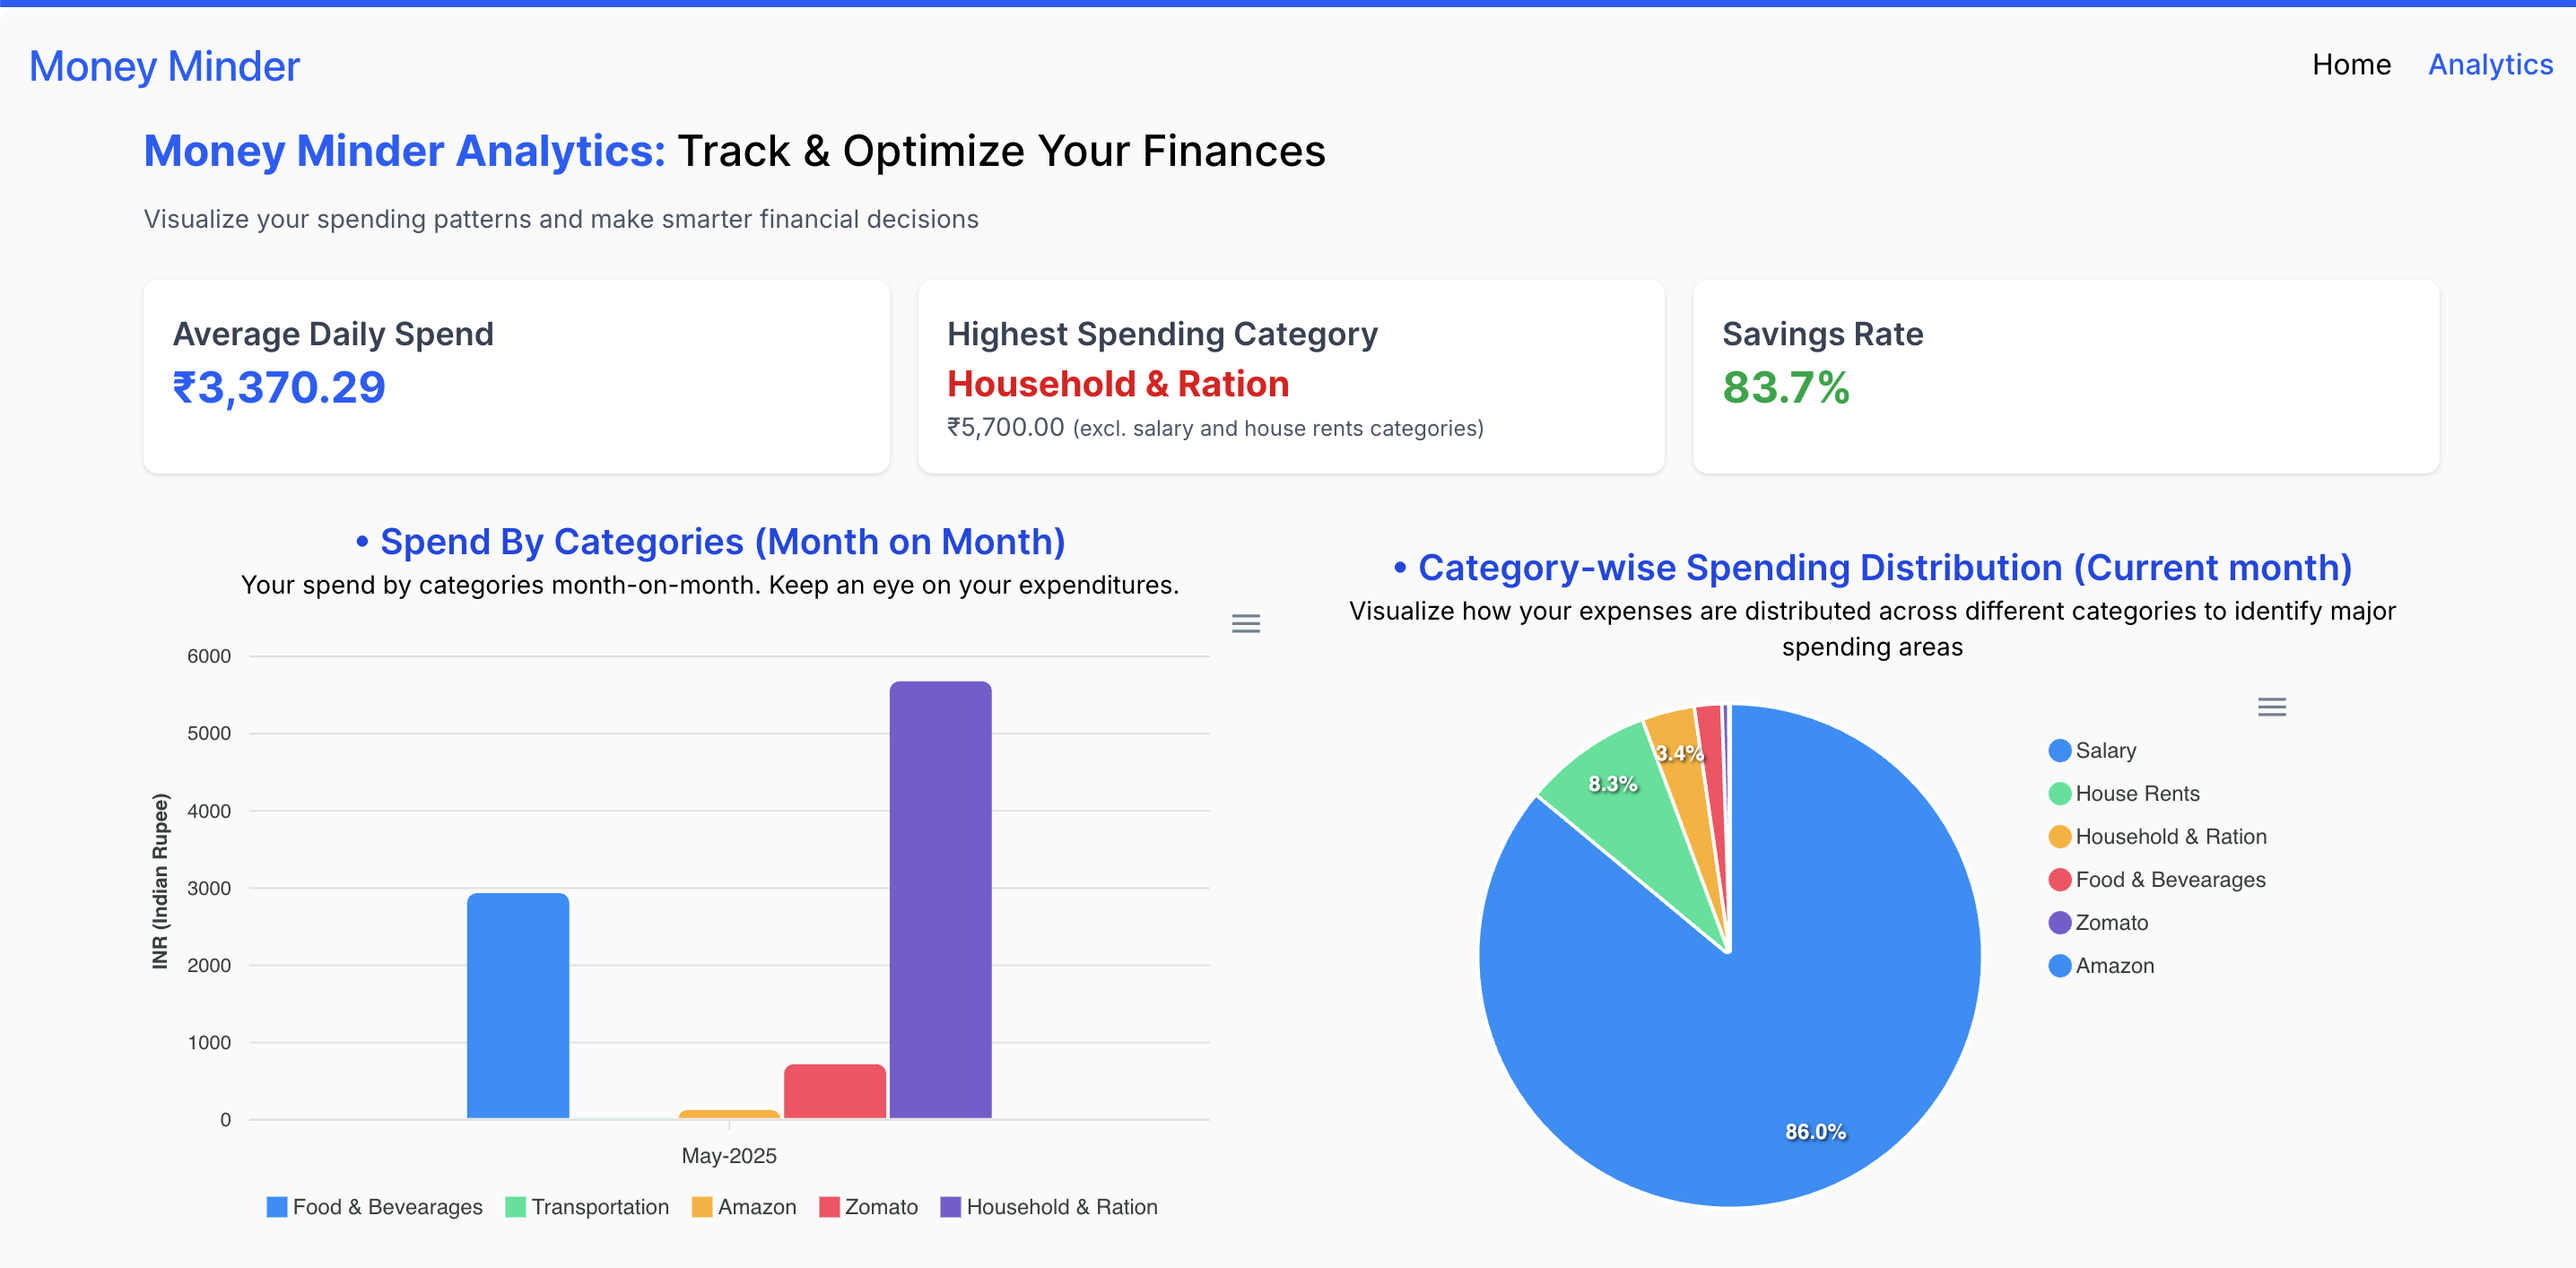
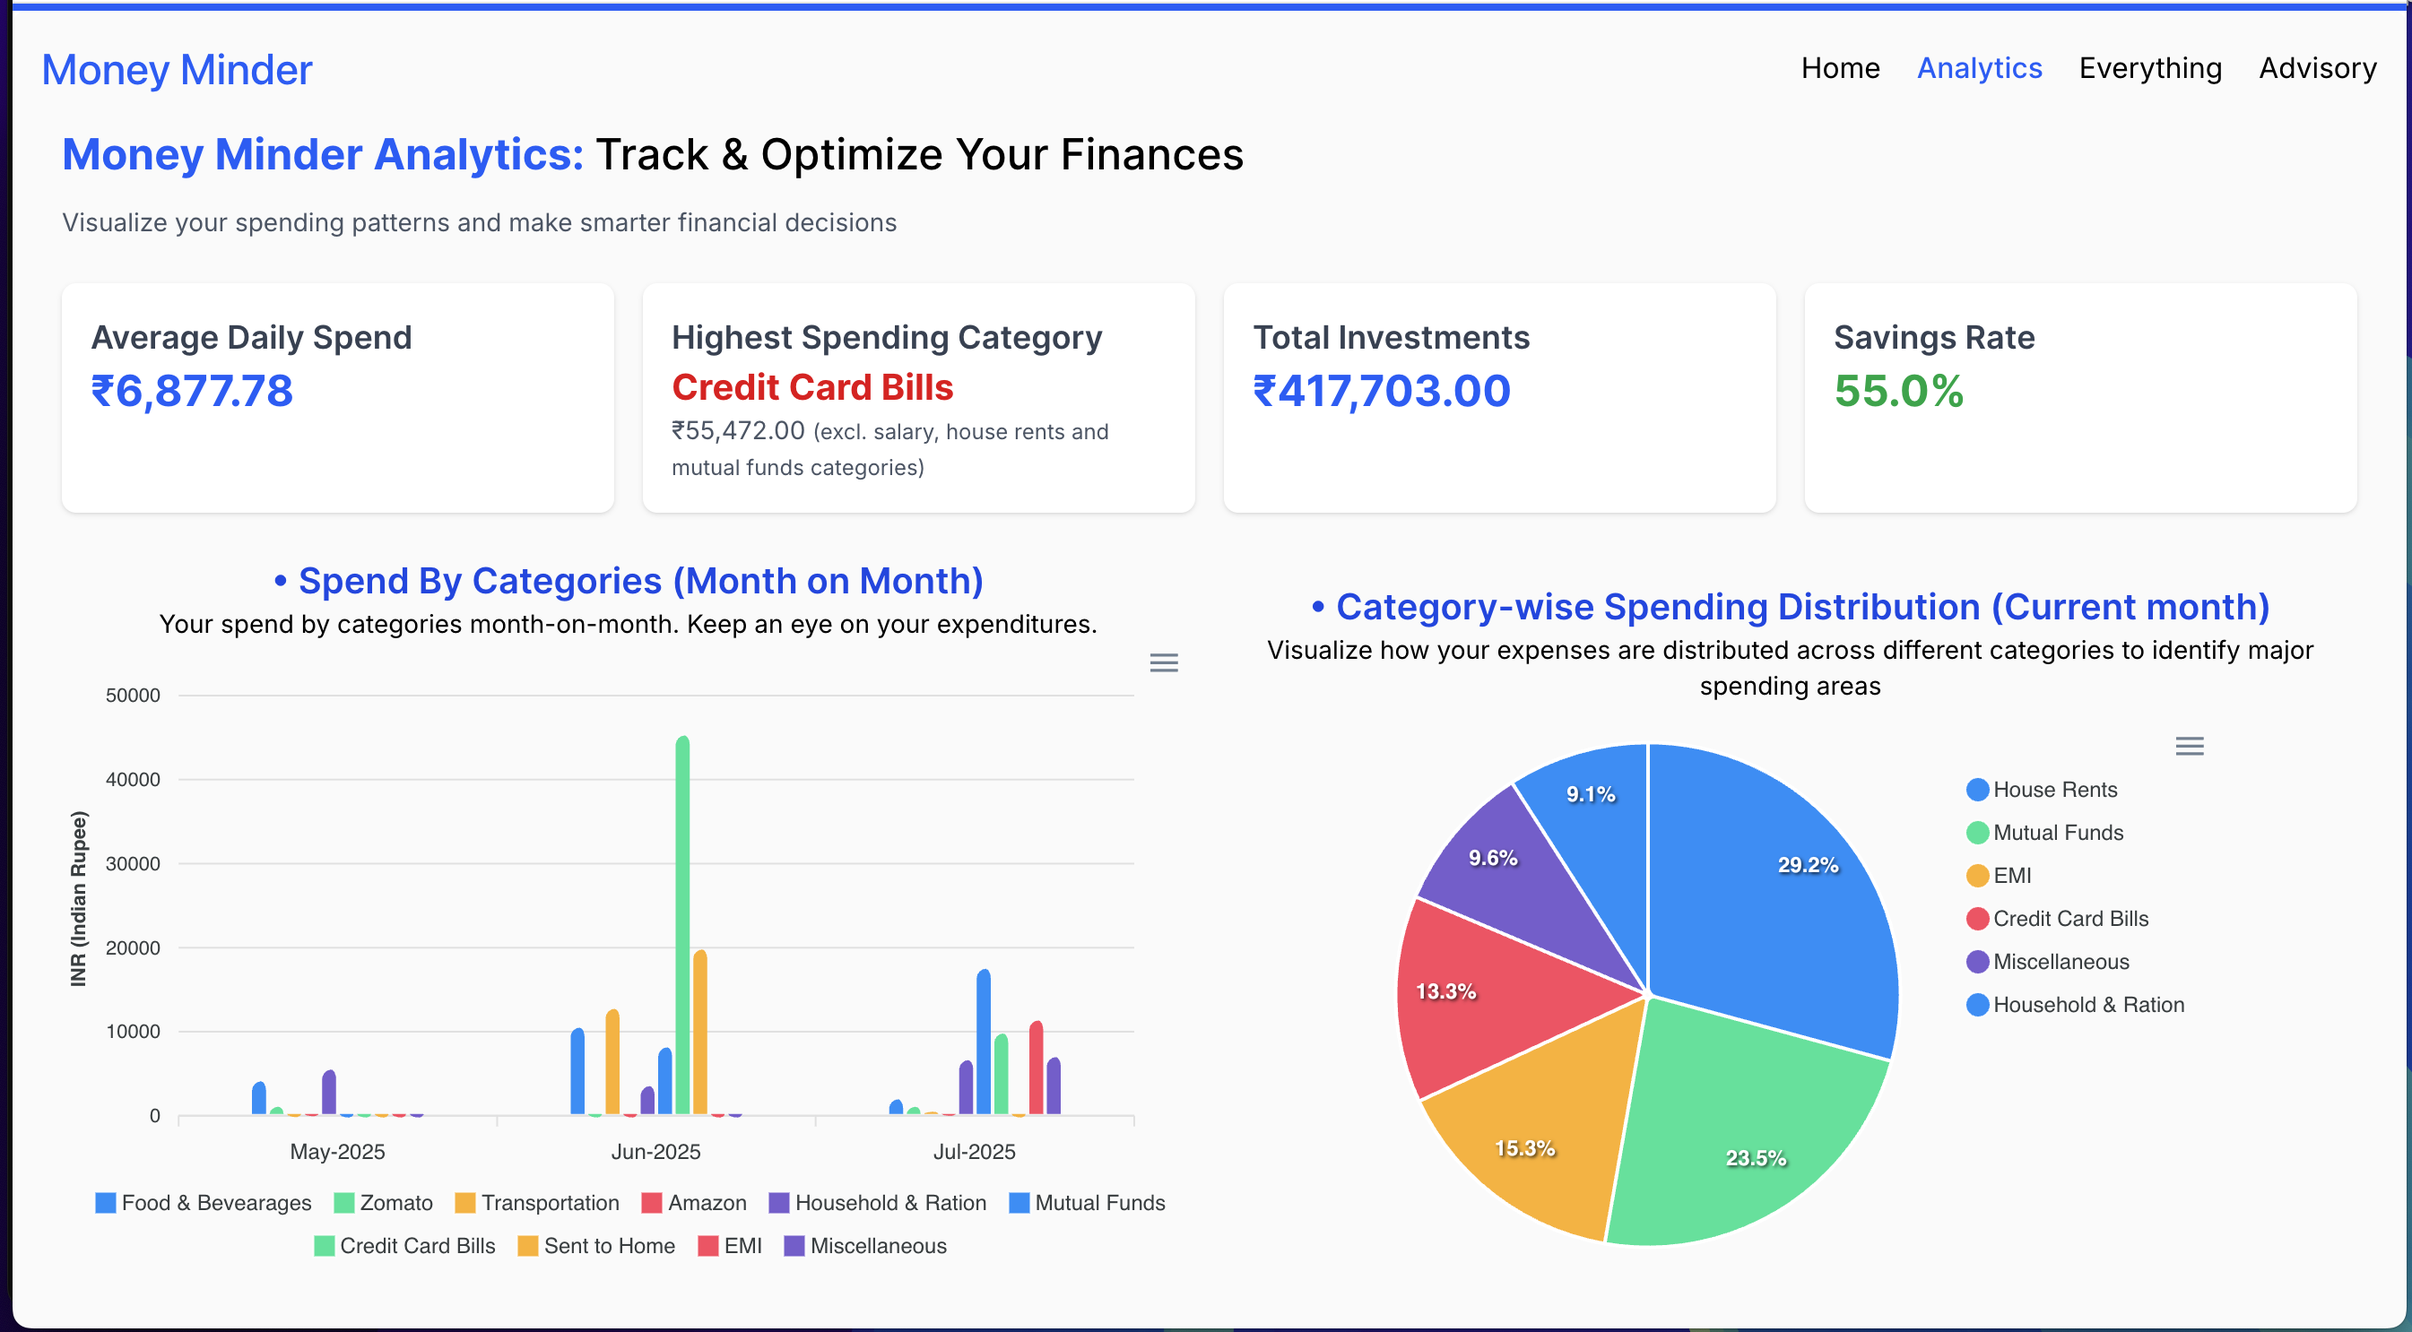
Update README.md with new transaction and analytics sections, including visual assets for better user understanding. Added year-over-year expense tracking and month-to-month comparison features with corresponding images.

diff --git a/README.md b/README.md
@@ -34,15 +34,19 @@ Money Minder is a personal finance management application that helps users track
   - BigQuery for analytics and reporting
   - Cloud Monitoring for observability
 
-  ### All transactions:
+### All transactions:
+
+Transactions - 1
 ![home-light](assets/transactions.png)
+
+Transactions - 2
+![home-light](assets/transactions-2.png)
 
 ### Data Analytics
 - BigQuery for financial data analysis
 - Custom SQL queries for transaction insights
 - Data visualization using BigQuery ML
 - Automated reporting and trend analysis
-
 
 ### Analytics Section - 1:
 ![home-light](assets/analytics-1.png)
@@ -52,6 +56,19 @@ Money Minder is a personal finance management application that helps users track
 
 ### Analytics Section - 3:
 ![home-light](assets/analytics-3.png)
+
+
+## Everything Section 
+
+Look back your expenses Year by year and MoM drill down.
+
+### Intellegent Summary Cards:
+![e1](assets/everything-1.png)
+
+
+### Compare your expenses Month v/s Month:
+![e1](assets/everything-2.png)
+
 
 ### Author Information
 - **Name:** Sounish Nath
